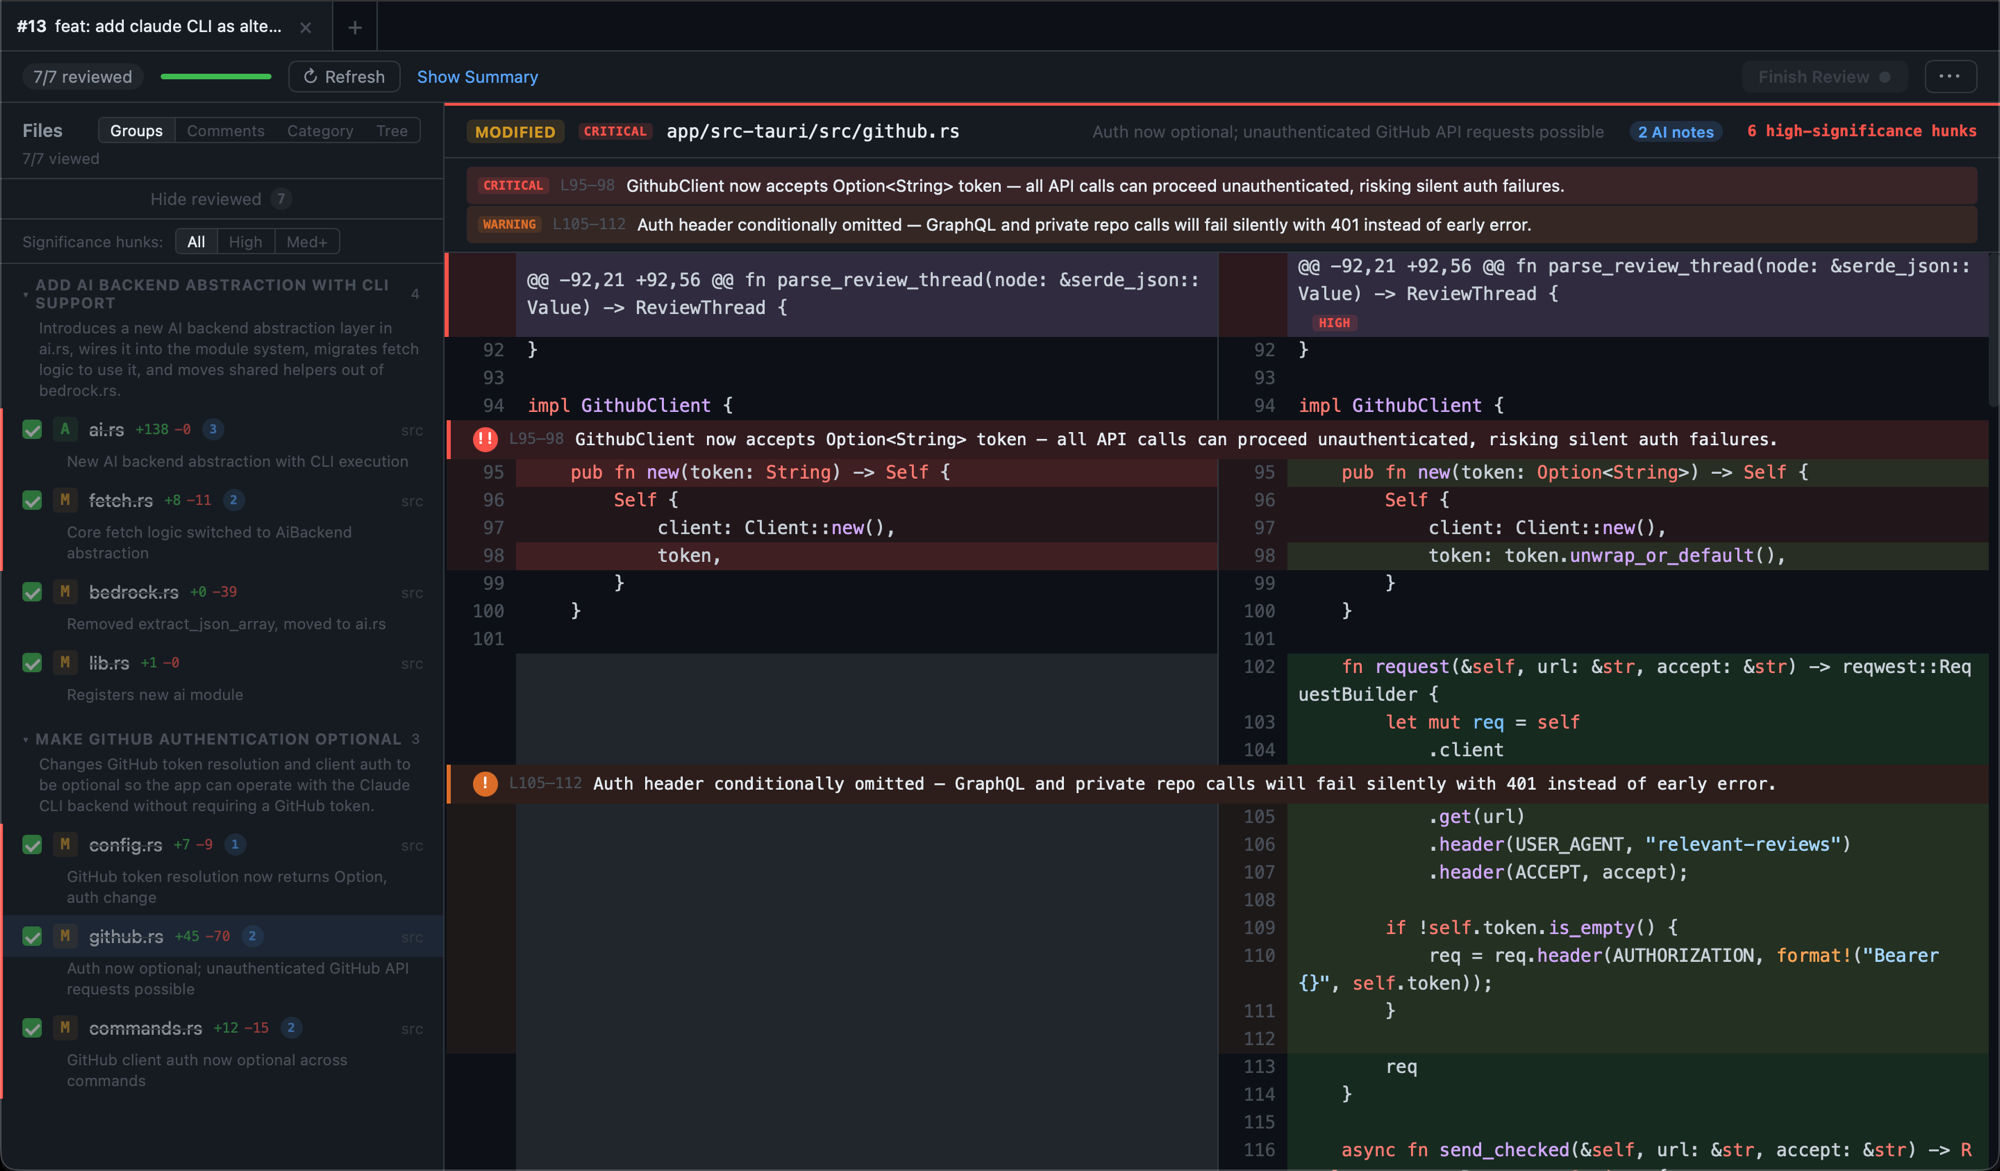
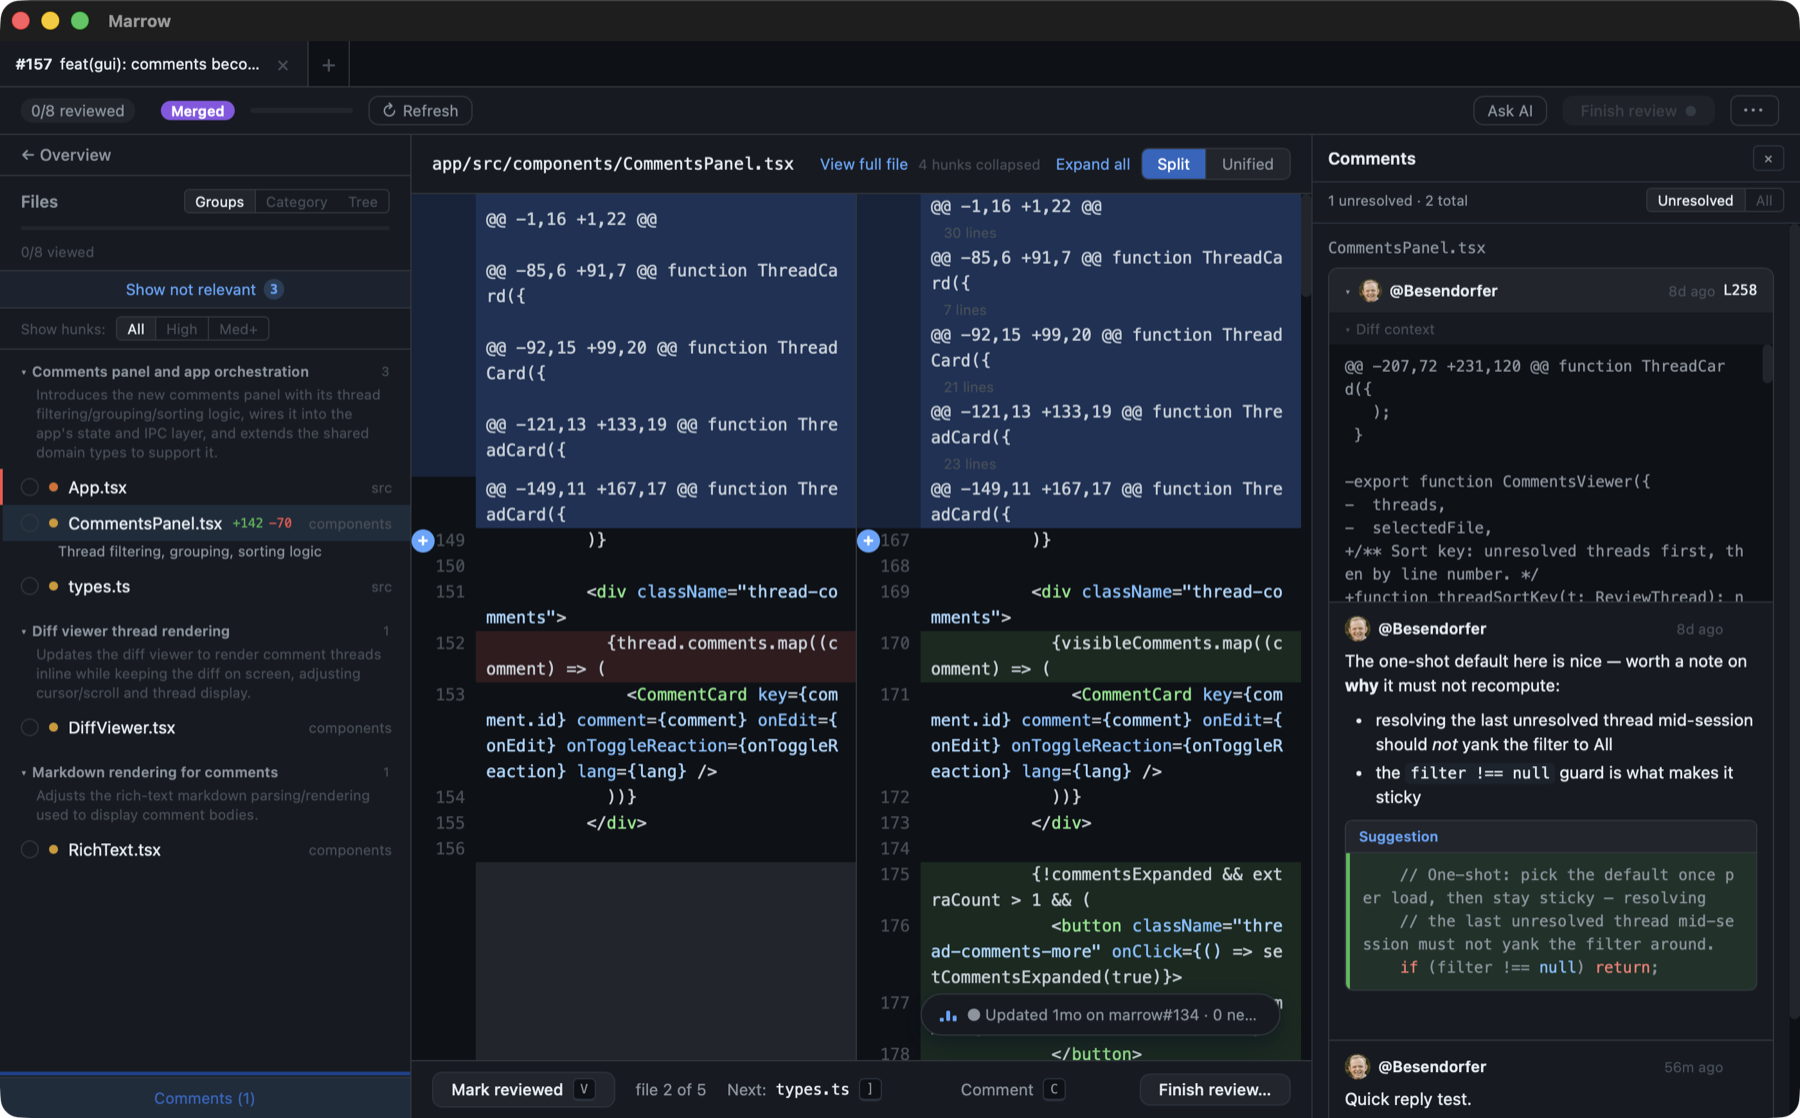
docs: cask install, v0.18-v0.24 features, fresh hero, condense rr
The refresh had drifted again while it sat: five releases shipped
(calm UI overhaul, queue home, command palette, onboarding, manifest
enrichment, note resolutions, overview extras, comments panel) plus
the new Homebrew cask. Adds a "guided path" features section, updates
the review/collaborate bullets for the comments panel and Ask AI,
documents `brew install --cask`, replaces the four-month-old hero
screenshot with the current UI (comments panel beside a split diff),
and condenses the superseded rr script docs to a legacy note.

diff --git a/README.md b/README.md
@@ -8,7 +8,7 @@
 A desktop app that uses AI to surface only the parts of a GitHub pull request that matter -- business logic, infrastructure, API changes -- so you can focus your review where it counts.
 
 <p align="center">
-  <img src="assets/screenshot.png" alt="Marrow showing a PR with AI-annotated diffs and change groups" width="900" />
+  <img src="assets/screenshot.png" alt="Marrow reviewing a merged PR: AI change groups in the sidebar, a split diff, and the comments panel with a review thread beside the code" width="900" />
 </p>
 
 ## Why?
@@ -21,11 +21,15 @@ Marrow loads a PR, uses AI to classify every file by what it contains, and surfa
 
 ## Download
 
-**[Download for macOS (Apple Silicon)](https://github.com/Besendorfer/marrow/releases/latest/download/Marrow_aarch64.dmg)**
+**[Download for macOS (Apple Silicon)](https://github.com/Besendorfer/marrow/releases/latest/download/Marrow_aarch64.dmg)** -- or install with Homebrew:
+
+```bash
+brew install --cask besendorfer/tap/marrow
+```
 
 Or browse [all releases](https://github.com/Besendorfer/marrow/releases).
 
-> The app is signed and notarized by Apple. After downloading the `.dmg`, open it and drag "Marrow" to your Applications folder. Auto-updates are built in -- you'll be notified when new versions are available.
+> The app is signed and notarized by Apple. After downloading the `.dmg`, open it and drag "Marrow" to your Applications folder. Auto-updates are built in -- you'll be notified when new versions are available (the Homebrew cask defers to the built-in updater, so `brew upgrade` won't fight it).
 
 ## Terminal (CLI/TUI)
 
@@ -56,9 +60,16 @@ marrow review <pr> # fetch + classify, then open the TUI
 2. **Classify** -- sends the file list and diff to Claude, which labels each file as RELEVANT or NOT_RELEVANT based on what it contains
 3. **Highlight** -- a second AI pass identifies specific lines in relevant files that deserve human attention (security changes, behavior changes, removed safety checks, etc.)
 4. **Summarize** -- generates a high-level summary of the PR's changes
-5. **Review** -- displays the relevant diffs in a split, unified, or full-file viewer with syntax highlighting and AI-annotated risk indicators; dismiss highlights you've handled, post AI notes as editable comment drafts, and reply to or resolve threads -- and keep an eye on every PR you care about from the activity mini-player
+5. **Review** -- lands you on a summary-first overview (description, CI, labels, mergeable state), then guides you file by file through split, unified, or full-file diffs with syntax highlighting and AI-annotated risk indicators; resolve highlights with a reason, ask the AI questions about the diff, post AI notes as editable comment drafts, and work review threads in a panel beside the code -- and keep an eye on every PR you care about from the activity mini-player
 
 ## Features
+
+### A guided path through every PR
+
+- **Review Queue home** -- open the app to the PRs that need you: review requests with author avatars, approval counts, and reason lines, plus a drafts toggle and recently analyzed PRs. The omnibox opens any PR ref or filters the queue as you type.
+- **Overview first** -- every PR starts at a summary page: the AI summary, the PR description rendered as markdown, and meta chips for CI status, mergeable/conflict state, labels, draft state, author, branch, and total size -- then a guided next-file bar walks you through the relevant files in order, tracking progress as you go.
+- **⌘K command palette** -- every action searchable from the keyboard.
+- **Guided first run** -- a two-step welcome validates your GitHub token and AI provider before you ever see an empty screen.
 
 ### Stay on top of PR activity
 
@@ -70,8 +81,9 @@ marrow review <pr> # fetch + classify, then open the TUI
 ### Find what matters in a diff
 
 - **AI classification** -- files automatically categorized and scored by risk level (critical / high / medium / low)
-- **AI highlights** -- specific lines annotated with severity (critical / warning / info) and explanatory comments -- **dismiss the ones you've handled** (and restore them later), remembered per PR
+- **AI highlights** -- specific lines annotated with severity (critical / warning / info) and explanatory comments -- **resolve the ones you've handled with a reason** (fixed / intentional / noise), remembered per PR and fed back to the AI so re-analysis doesn't re-flag what you've already triaged; an indicator counts new notes whenever the PR updates
 - **AI summaries** -- high-level overview of what the PR changes and why it matters
+- **Ask AI** -- a streaming chat about the diff itself ("why did this signature change?", "what calls this?"), with per-PR history
 - **Change groups** -- AI-generated logical grouping of related file changes
 - **Split, unified, and full-file diff views** -- toggle side-by-side or unified, with syntax highlighting; expand any file to its full contents when you need surrounding context
 - **File sidebar** -- files grouped by category with risk indicators and viewed-progress tracking; **show or hide the "not relevant" files** on demand
@@ -80,7 +92,7 @@ marrow review <pr> # fetch + classify, then open the TUI
 
 ### Review and collaborate
 
-- **PR comments and threads** -- read, reply to, and resolve review threads; react with emoji
+- **Comments panel** -- review threads live in a slide-in panel beside the diff, so the code never leaves the screen: grouped by file with an unresolved/all filter, markdown bodies (including GitHub `suggestion` blocks), and jump-to-thread that scrolls the diff to the exact line. Reply, resolve, edit, and react without switching context.
 - **AI notes → comment drafts** -- turn an AI highlight into a comment, pre-filled and editable, before it ever reaches GitHub
 - **PR checks** -- monitor CI/CD check status with blocking-check alerts
 - **Merged & approved at a glance** -- a "Merged" badge when a PR lands (even while you're viewing it) and an "Approved by you" badge once you've signed off
@@ -183,60 +195,9 @@ bun run tauri dev
 - Type declaration files that only re-export or define UI prop types
 - Static assets and auto-generated files
 
-## CLI (`rr`)
+## Legacy: the `rr` script
 
-A standalone Bash script that performs the same fetch/classify/highlight workflow using the `gh` CLI and `claude` CLI. It can output results as a manifest JSON, print classification summaries, or open diffs in VSCode.
-
-### Prerequisites
-
-- [GitHub CLI (`gh`)](https://cli.github.com/) -- authenticated with access to your repos
-- [Claude CLI (`claude`)](https://docs.anthropic.com/en/docs/claude-cli) -- for AI classification
-- `jq`, `python3`
-
-### Setup
-
-```bash
-chmod +x rr
-
-# (Optional) Symlink into a directory on your PATH
-ln -s "$(pwd)/rr" /usr/local/bin/rr
-
-# Set the model (env var or config file)
-export RR_MODEL="claude-sonnet-4-6"
-```
-
-### Usage
-
-```
-rr <pr-url-or-ref> [options]
-```
-
-| Option | Description |
-|---|---|
-| `<pr-url-or-ref>` | GitHub PR URL, `owner/repo#number`, or just a number (if inside a repo) |
-| `--list-only` | Only print the classification results, don't open any viewer |
-| `--manifest-only` | Build the manifest JSON and print its path |
-| `--vscode` | Open diffs in VSCode instead of the desktop app |
-| `--help` | Show help |
-
-### Examples
-
-```bash
-# Full PR URL
-rr https://github.com/myorg/myrepo/pull/123
-
-# Short form
-rr myorg/myrepo#123
-
-# Just a number (when inside a git repo with a GitHub remote)
-rr 123
-
-# List classification only
-rr 123 --list-only
-
-# Open in VSCode
-rr 123 --vscode
-```
+Marrow began as [`rr`](rr), a standalone Bash script driving the same fetch/classify/highlight workflow through the `gh` and `claude` CLIs. It still works (`rr <pr-url-or-ref> --help`), but the [`marrow` CLI/TUI](#terminal-clitui) above supersedes it -- same idea, real core, no Bash.
 
 ## License
 
